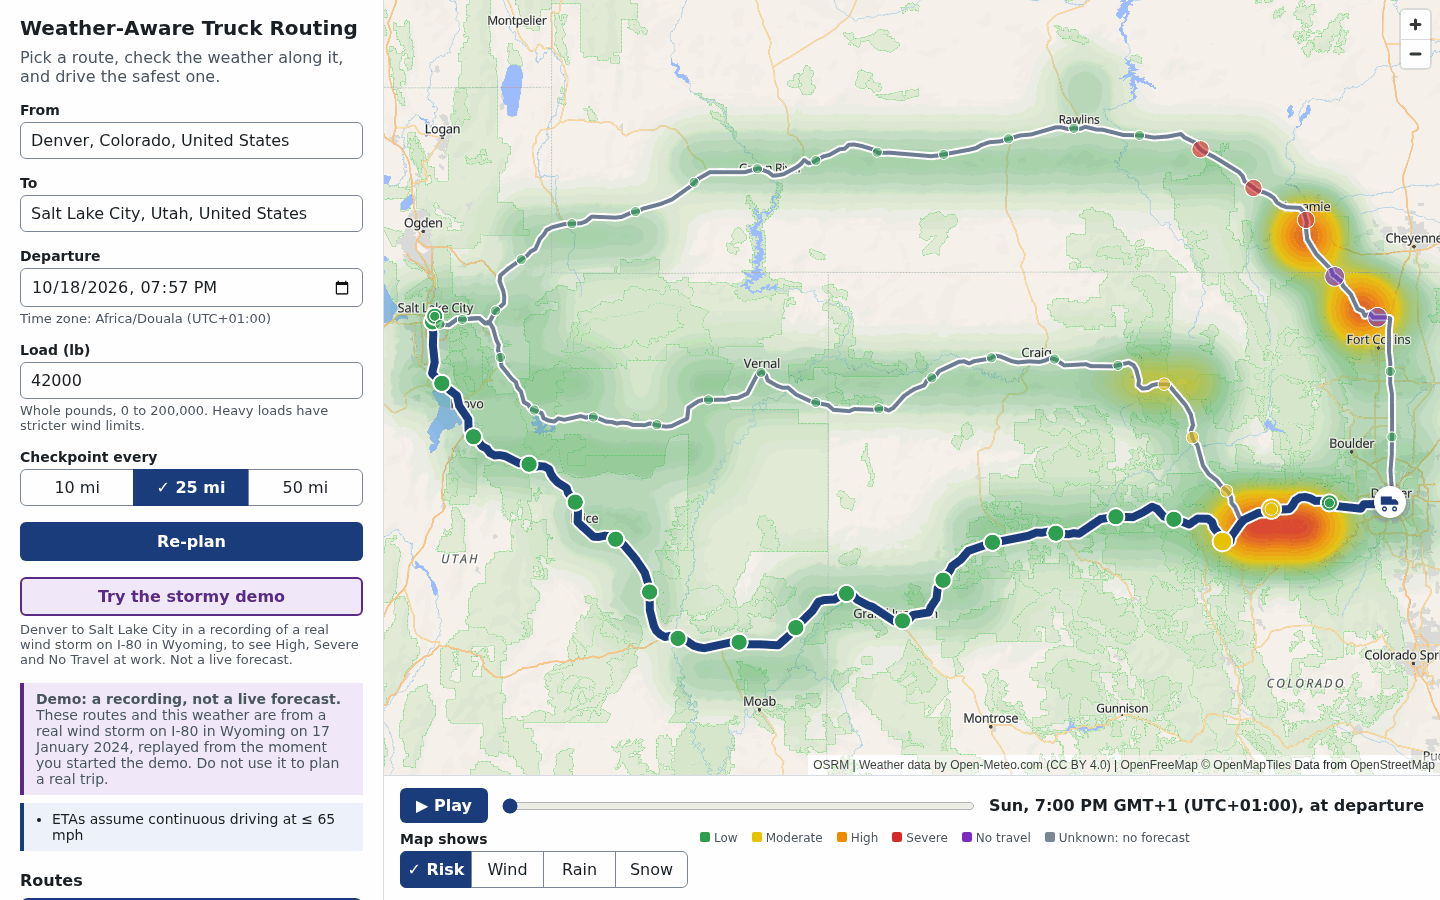
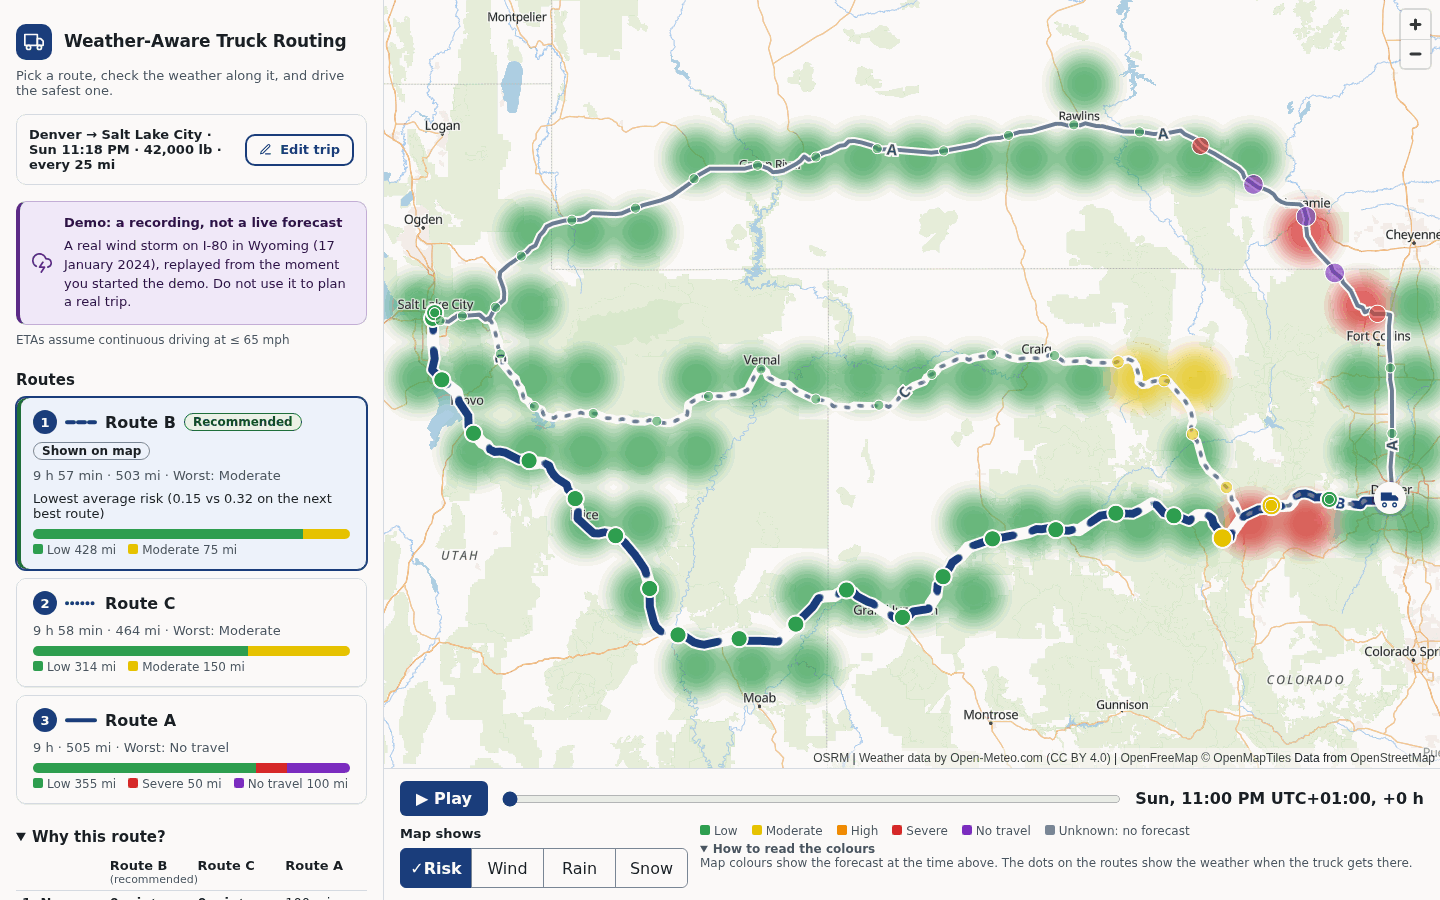
docs: bring the README and the changelog up to date (#137)
## Summary

The README and the changelog now describe the app as it is: a current
screenshot on a laptop and on a phone, a walkthrough numbered 1 to 6,
the demo in the architecture diagram, and the changelog brought up to
date.

Closes #136

## Changes

- README: the top screenshot is the stormy demo planned (new interface);
a phone screenshot in the walkthrough; the old Boulder image is removed;
steps numbered 1 to 6 and worded for the current messages and the "Why
this route?" table; the diagram shows `GET /api/demo` and the recorded
storm; the testing section says "browser tests".
- CHANGELOG: an Unreleased section with every change merged since 1.0.0,
grouped as features, fixes and other, from the commit history.

## How it was tested

- [x] Every relative link, image and contents anchor in the README, the
changelog and `docs/` resolves (checked by script)
- [x] Images are 167 KB and 81 KB (limit 500 KB); prettier is clean
- [x] The screenshots were taken from the running app

## Checklist

- [x] Every acceptance criterion in the linked issue is met
- [x] Small, focused commits with Conventional Commit messages
- [x] No secrets, debug output, commented-out code or untracked TODOs
- [x] Docs, SPEC or ADR updated if behavior or a decision changed
- [ ] Backlog item ticked: not applicable, this issue is not a backlog
item

## Notes for reviewers

- Documentation only. The walkthrough video link is not in the README:
it is for the author to add once recorded.

diff --git a/README.md b/README.md
@@ -7,7 +7,7 @@ A web app that recommends the safest truck route between two places, based on th
 
 The API is on a free plan and sleeps when idle, so the first request after a quiet period takes up to a minute.
 
-![The app after planning Boulder to Fort Collins: route cards on the left, routes and the risk heatmap on the map, the forecast slider below](docs/images/plan-overview.png)
+![The stormy demo planned: the trip summary, route cards and the "Why this route?" table on the left; three routes with their risk heatmap on the map; the forecast slider below](docs/images/stormy-demo.png)
 
 ## Contents
 
@@ -41,14 +41,16 @@ The API is on a free plan and sleeps when idle, so the first request after a qui
 
 ## Walkthrough
 
-![The stormy demo: the fastest road, I-80 through Wyoming, is Severe and No Travel at Laramie and Fort Collins, and the recommended route goes around it](docs/images/stormy-demo.png)
+1. **See it at work first.** On a calm day every route is Low. Press **Try the stormy demo** to plan Denver to Salt Lake City inside a recording of the wind storm of 17 January 2024 on I-80 in Wyoming (see [Stormy demo](#stormy-demo)). The fastest road meets No Travel wind, the other two go around it, and a banner says it is a recording.
+2. **Choose the trip.** Pick two places with the search boxes (they start as Chicago and Denver), then set the departure time, the load in pounds and the checkpoint spacing. Press **Plan trip**.
+3. **Read the routes.** The form folds into a one-line summary of the trip (press **Edit trip** to change it), so all three cards fit on screen. Each card shows the duration, distance, the worst risk level and a bar of how many miles fall in each level. The recommended route is marked, with the reason it won. Messages above the cards say what to know (the demo notice, missing weather, no safe route), and the assumptions sit under them as small print. A "Why this route?" table under the cards lays the ranking out criterion by criterion.
+4. **Open a checkpoint.** Click a dot on the map to see the arrival time, the weather expected at that moment and the reasons for its risk level, for example "Wind 47 mph with 42,000 lb load".
+5. **Move through time.** Drag the forecast slider, or press **Play**, to watch the heatmap and the truck marker change over the 48 hours after departure. Switch the map between **Risk**, **Wind**, **Rain** and **Snow**. With the keyboard, focus the slider and use the arrow keys.
+6. **Compare.** Each route has its own line pattern and letter on the map (A solid, B dashed, C dotted), shown again beside its card. Point at a line to see its summary (name, time, distance and the miles at its worst level), hover a card to light its line, and select a card to move the checkpoints and the truck to that route. A grey level means the forecast is missing there; it is never shown as Low.
 
-0. **See it at work first.** On a calm day every route is Low. Press **Try the stormy demo** to plan Denver to Salt Lake City inside a recording of the wind storm of 17 January 2024 on I-80 in Wyoming (see [Stormy demo](#stormy-demo)). The fastest road meets No Travel wind, the other two go around it, and a banner says it is a recording.
-1. **Choose the trip.** Pick two places with the search boxes (they start as Chicago and Denver), then set the departure time, the load in pounds and the checkpoint spacing. Press **Plan trip**.
-2. **Read the routes.** The form folds into a one-line summary of the trip (press **Edit trip** to change it), so all three cards fit on screen. Each card shows the duration, distance, the worst risk level and a bar of how many miles fall in each level. The recommended route is marked, with the reason it won. Banners above the cards list assumptions and gaps, such as fewer than three routes or missing weather.
-3. **Open a checkpoint.** Click a dot on the map to see the arrival time, the weather expected at that moment and the reasons for its risk level, for example "Wind 47 mph with 42,000 lb load".
-4. **Move through time.** Drag the forecast slider, or press **Play**, to watch the heatmap and the truck marker change over the 48 hours after departure. Switch the map between **Risk**, **Wind**, **Rain** and **Snow**. With the keyboard, focus the slider and use the arrow keys.
-5. **Compare.** Each route has its own line pattern and letter on the map (A solid, B dashed, C dotted), shown again beside its card. Point at a line to see its summary (name, time, distance and the miles at its worst level), hover a card to light its line, and select a card to move the checkpoints and the truck to that route. A grey level means the forecast is missing there; it is never shown as Low.
+On a phone the map takes the screen, the forecast control is one compact block, and the trip sits in a sheet under it:
+
+<img src="docs/images/phone-demo.png" alt="The stormy demo on a phone: the map with three routes and the heatmap, the forecast controls under it, and a one-line bar for the trip sheet" width="280">
 
 ## Stormy demo
 
@@ -62,10 +64,12 @@ With a 42,000 lb load the fastest road (I-80 through Wyoming) has 100 miles of N
 flowchart LR
   UI[React app on Vercel] -- POST /api/plan --> API
   UI -- GET /api/geocode --> API
+  UI -- GET /api/demo --> API
   subgraph API[Django API on Render]
     V[Views + serializers] --> S[PlanService facade]
     S --> D[domain: pure functions]
     S --> P[providers: adapters]
+    DEMO[demo: recorded storm] --> S
     P --> C[(cache)]
   end
   P --> OSRM
@@ -162,7 +166,7 @@ The hooks run ruff, mypy, prettier, eslint and gitleaks, plus basic file hygiene
 ```bash
 make check                          # everything CI runs
 make be-test ARGS="-k risk"         # a focused backend run
-make fe-e2e                         # the browser test (first: cd frontend && npx playwright install chromium)
+make fe-e2e                         # the browser tests (first: cd frontend && npx playwright install chromium)
 ```
 
 - **The brief's rules, to read beside the brief:** [`backend/tests/unit/test_brief_cases.py`](backend/tests/unit/test_brief_cases.py) is the wind, rain and snow bands, the three load rules, the worst-factor rule, missing weather and the ranking order as plain cases, one line each with the level a truck is told, with a case on both sides of every edge (47 mph with 30,000 lb is Severe, with 30,001 lb it is No Travel). If you read the brief differently, that is the line to challenge.

diff --git a/CHANGELOG.md b/CHANGELOG.md
@@ -2,6 +2,36 @@
 
 All notable changes, generated from the Conventional Commit history.
 
+## [Unreleased]
+
+Changes merged since the first release.
+
+### Features
+
+- add a labeled demo mode with a recorded storm ([#107](https://github.com/syntrydy/truck-routing/pull/107))
+- **web:** fold the form into a summary after planning ([#115](https://github.com/syntrydy/truck-routing/pull/115))
+- **web:** tell routes apart on the map by pattern and letter ([#117](https://github.com/syntrydy/truck-routing/pull/117))
+- **web:** load a lighter basemap ([#119](https://github.com/syntrydy/truck-routing/pull/119))
+- **web:** show a route's summary on the map line ([#125](https://github.com/syntrydy/truck-routing/pull/125))
+- show why a route was recommended, criterion by criterion ([#127](https://github.com/syntrydy/truck-routing/pull/127))
+- **web:** put the stormy demo first, where a visitor sees it ([#131](https://github.com/syntrydy/truck-routing/pull/131))
+- **web:** work well on phones and tablets, and load faster on slow connections ([#133](https://github.com/syntrydy/truck-routing/pull/133))
+- **web:** polish the left panel: one visual language and a clearer trip form ([#135](https://github.com/syntrydy/truck-routing/pull/135))
+
+### Fixes
+
+- **api:** warn about missing weather only where a route is affected ([#105](https://github.com/syntrydy/truck-routing/pull/105))
+- **domain:** drop detours that double back ([#109](https://github.com/syntrydy/truck-routing/pull/109))
+- **web:** show the weather warning once ([#112](https://github.com/syntrydy/truck-routing/pull/112))
+- **web:** say the time zone once in the forecast label ([#113](https://github.com/syntrydy/truck-routing/pull/113))
+- **web:** write times and zones one way everywhere ([#123](https://github.com/syntrydy/truck-routing/pull/123))
+- **web:** colour the heatmap by each point's own risk level ([#121](https://github.com/syntrydy/truck-routing/pull/121))
+
+### Other
+
+- tidy the readme and add a walkthrough ([#102](https://github.com/syntrydy/truck-routing/pull/102))
+- **domain:** the brief's rules as plain cases ([#129](https://github.com/syntrydy/truck-routing/pull/129))
+
 ## [1.0.0] - 2026-10-18
 
 First release.
